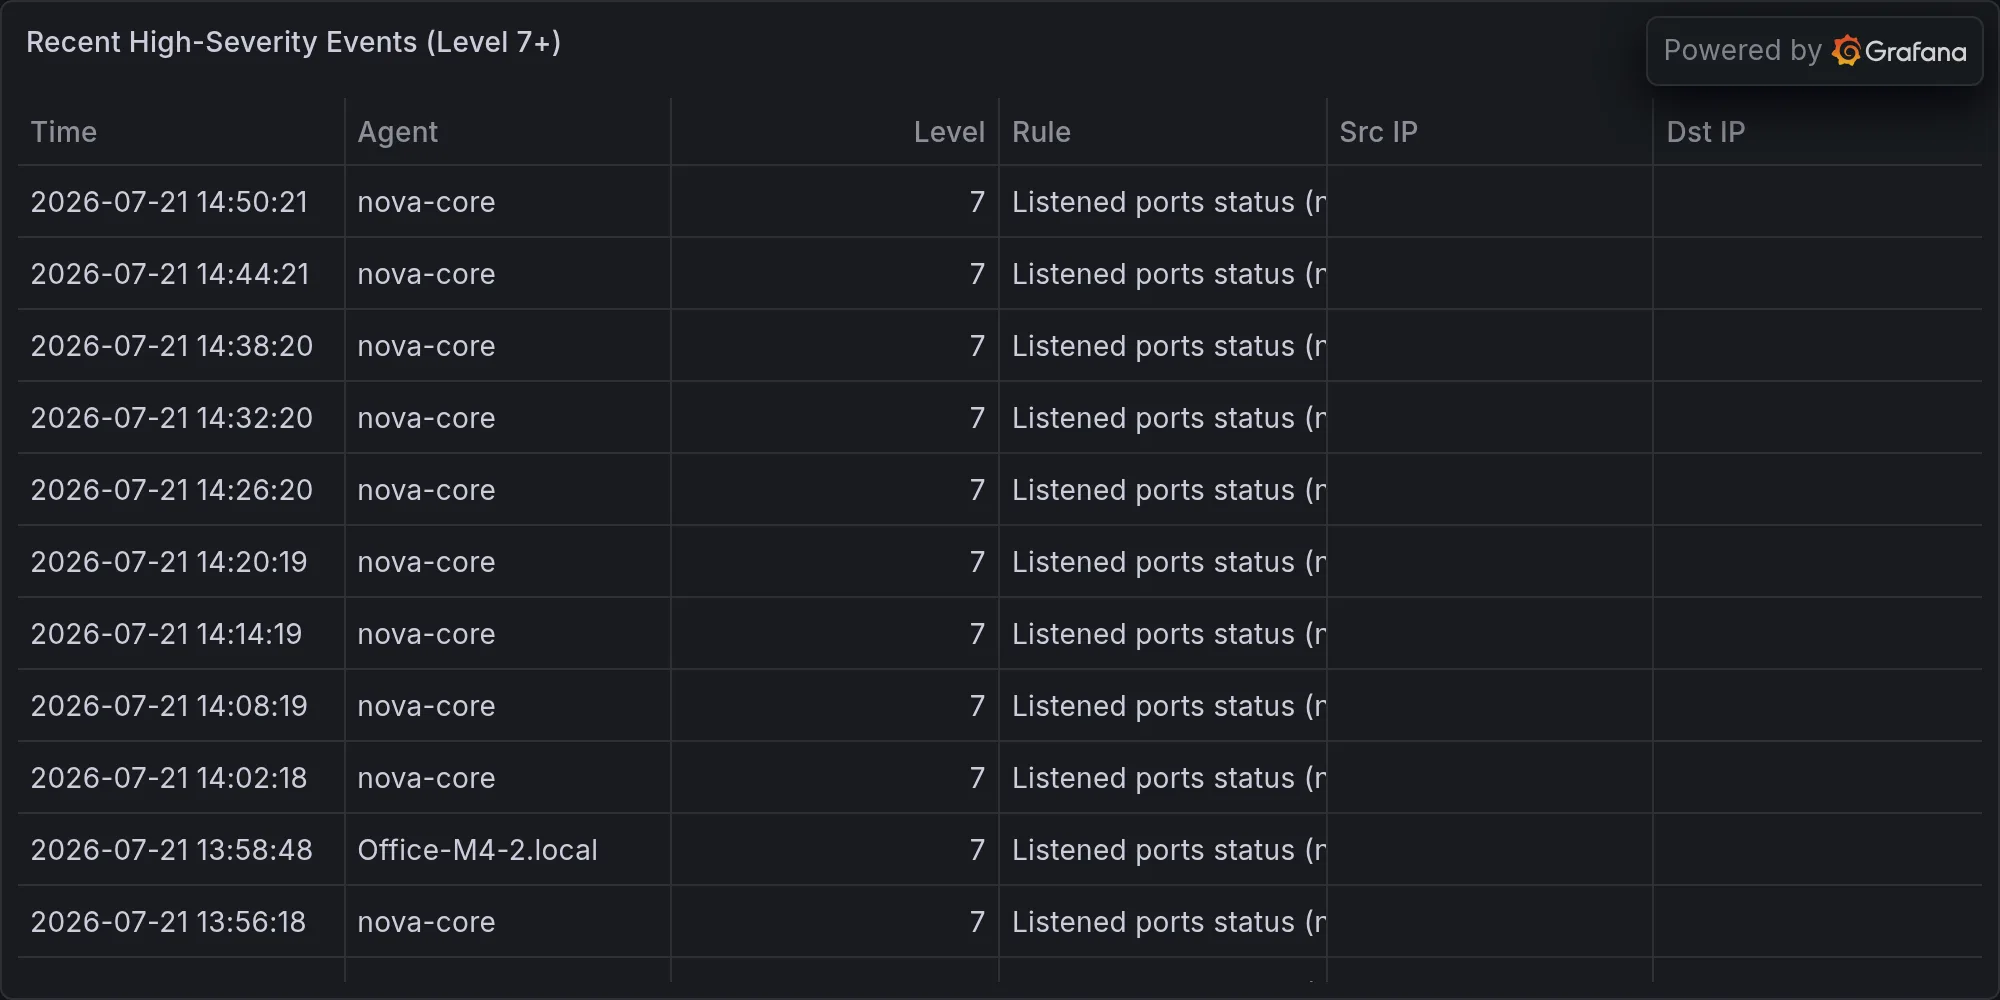
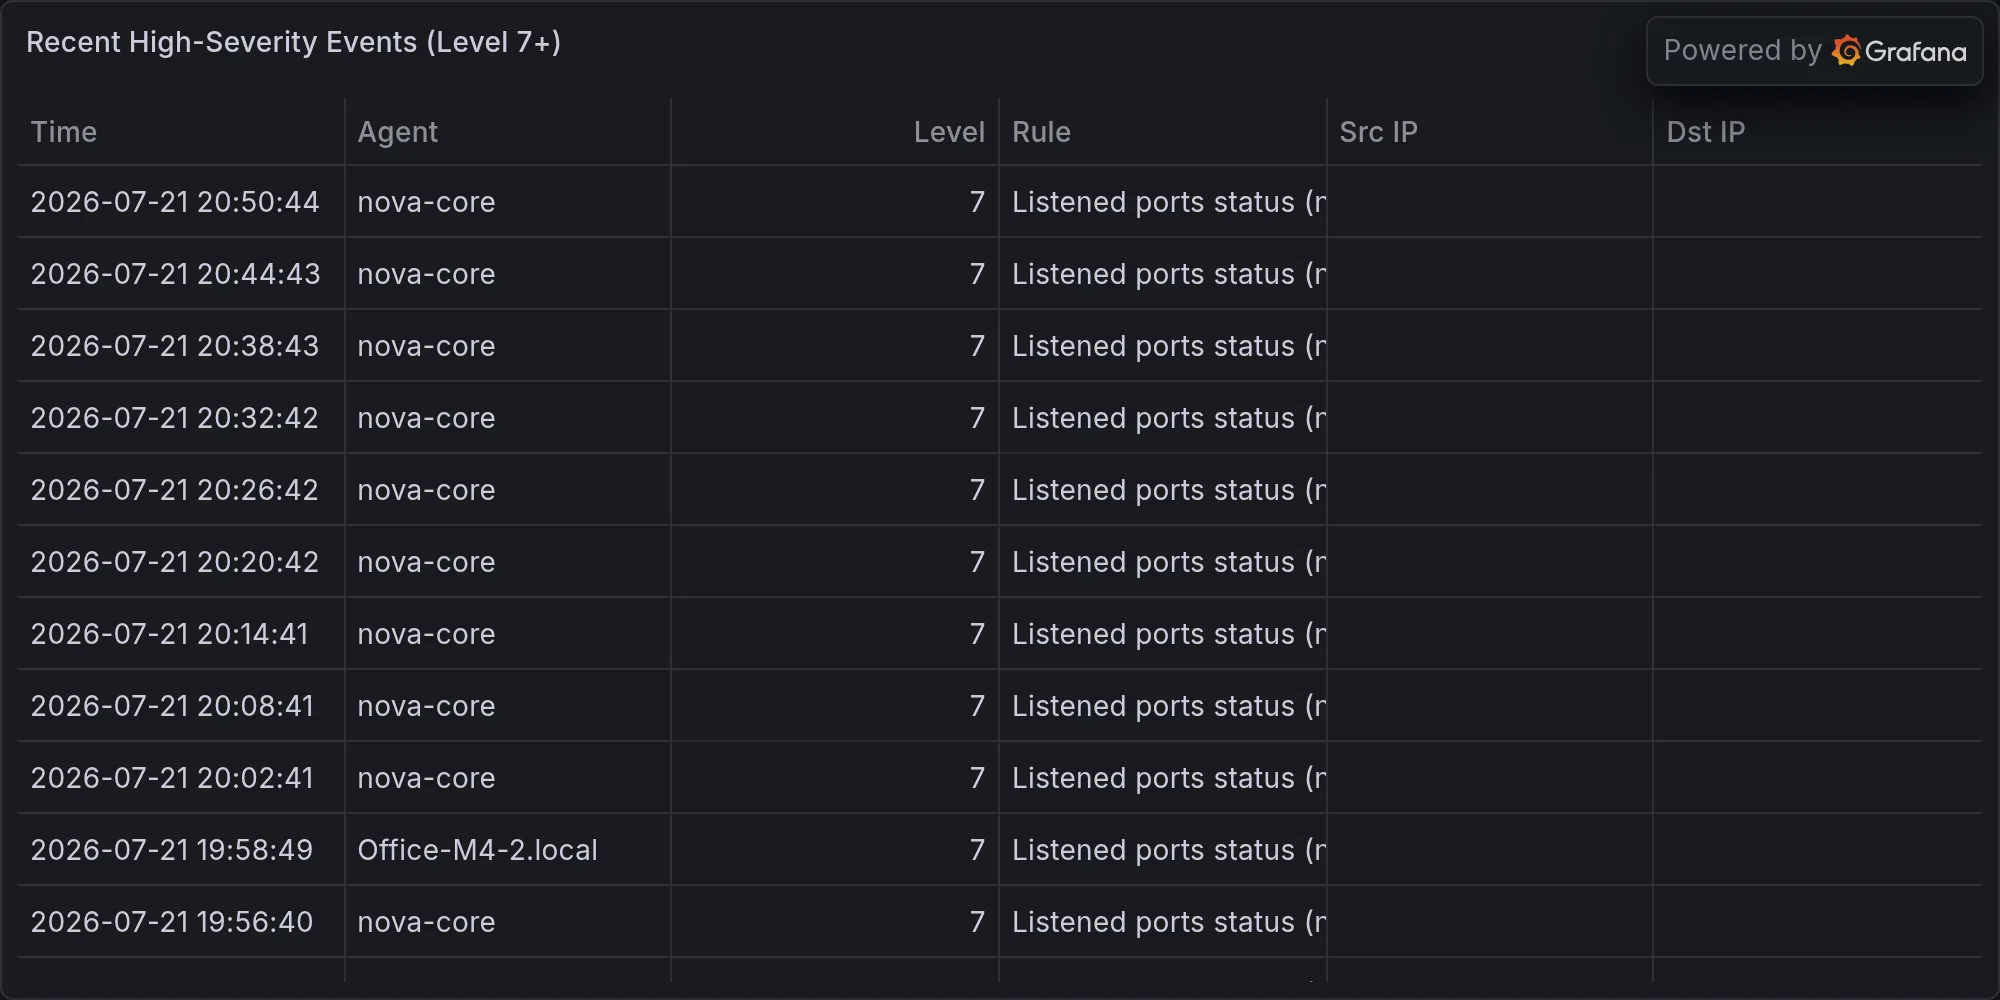
security: 2026-07-21 — **CVE-2026-58644: Microsoft SharePoint RCE Added t

diff --git a/content/operations/2026-07-21-cve-2026-58644-microsoft-sharepoint-rce-added-to-cisa-kev-ac.md b/content/operations/2026-07-21-cve-2026-58644-microsoft-sharepoint-rce-added-to-cisa-kev-ac.md
@@ -1,0 +1,74 @@
+---
+title: "🛡 **CVE-2026-58644: Microsoft SharePoint RCE Added to CISA KEV — Active Exploitation Confirmed**"
+date: 2026-07-21T20:52:32-07:00
+draft: false
+categories: ["operations"]
+tags: ["breaking-alert", "the-hacker-news-cisa-adds-exploited-shar", "security"]
+description: "BREAKING: The Hacker News: CISA Adds Exploited SharePoint RCE Zero-Day CVE-2026-58644 to KEV"
+cover:
+  image: "/images/operations/2026-07-21-cve-2026-58644-microsoft-sharepoint-rce-added-to-cisa-kev-ac.webp"
+  alt: "**CVE-2026-58644: Microsoft SharePoint RCE Added to CISA KEV — Active Exploitation Confirmed**"
+  relative: false
+---
+
+*Published Tuesday, July 21, 2026 at 08:52 PM PT*
+
+![**CVE-2026-58644: Microsoft SharePoint RCE Added to CISA KEV — Active Exploitation Confirmed**](/images/operations/2026-07-21-cve-2026-58644-microsoft-sharepoint-rce-added-to-cisa-kev-ac.webp)
+
+---
+
+**BLUF:** CISA has added CVE-2026-58644, a remote code execution vulnerability in Microsoft SharePoint, to its Known Exploited Vulnerabilities (KEV) catalog, confirming active exploitation in the wild. Any organization running affected SharePoint instances should assume compromise risk is elevated and prioritize assessment and patching immediately.
+
+---
+
+**DETAILS**
+
+• **Vulnerability Confirmed:** CVE-2026-58644 is a SharePoint RCE flaw. CISA KEV addition indicates exploitation has been observed beyond proof-of-concept.
+
+• **Active Exploitation Reported:** Multiple threat actors have begun targeting SharePoint deployments using this vulnerability. Exploitation capability is not theoretical or lab-only.
+
+• **Escalating Trend:** This is the third critical SharePoint RCE added to CISA KEV in recent months (CVE-2026-45659 and CVE-2026-50522 previously disclosed and actively exploited). Coordinated SharePoint targeting pattern suggests organized campaign.
+
+• **CISA Hardening Guidance:** CISA has issued SharePoint hardening recommendations in parallel, indicating this is part of a coordinated response to multiple related flaws in the same product line.
+
+• **Scope Uncertain:** Details on affected SharePoint versions, specific attack chain, and payload/post-exploitation capabilities are not yet fully disclosed in public sources. Microsoft advisory status and patch availability require verification.
+
+---
+
+**IMPACT**
+
+**Affected:** Organizations running Microsoft SharePoint on-premises and potentially hybrid deployments. Cloud-only SharePoint Online exposure is not yet confirmed.
+
+**Threat Level:** CRITICAL — active exploitation + no known reliable mitigations short of patching or taking SharePoint offline.
+
+**Attack Surface:** Unauthenticated or low-privilege access; exploitability likely high given CISA KEV status.
+
+---
+
+**RECOMMENDED ACTIONS**
+
+1. **Immediate Assessment (Today):** Inventory all SharePoint deployments. Determine affected versions against Microsoft advisory (TBD — check Microsoft Security Response Center).
+
+2. **Isolation Assessment (24–48 hrs):** If patch is not available, evaluate segmentation/WAF rules; consider taking affected instances offline if business impact is acceptable.
+
+3. **Log Review:** Search SharePoint access/application logs for anomalous POST requests, unusual user-agent strings, or failed authentication spikes from the past 30 days.
+
+4. **Patch When Available:** Microsoft will issue security updates. Prioritize deployment to all affected instances.
+
+5. **Monitor for PoC:** Track public repositories and threat forums for working exploit code; assume it will surface within 24–72 hours of KEV addition.
+
+---
+
+**SOURCES**
+
+- CISA Known Exploited Vulnerabilities (KEV) catalog
+- The Hacker News (summary aggregator of CISA alert)
+- CISA Current Activity (hardening guidance issued concurrently)
+
+**Note:** Details on patch timeline, exact affected versions, and post-exploitation behavior are not yet fully public. Monitor Microsoft Security Update Guide and CISA advisories for updates.
+
+---
+
+**Recent high-severity events at publish time:**
+
+![Recent high-severity events](/images/operations/2026-07-21-breaking-alert-posture.webp)
